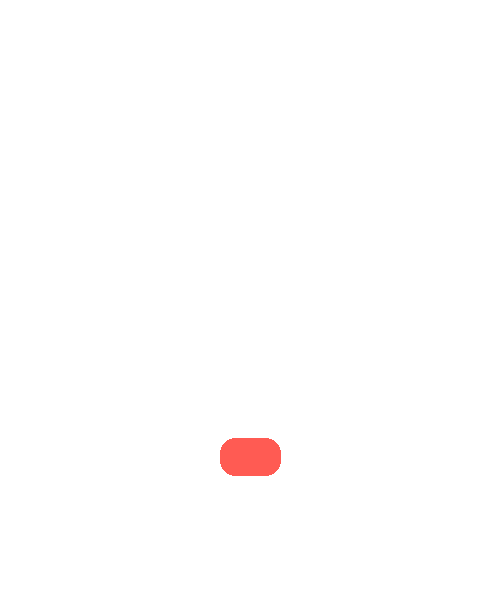
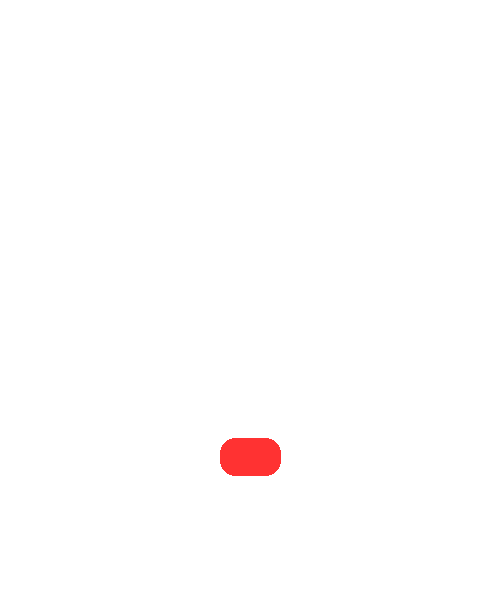
change colour add add r to refresh message

Changed region(s): [[0.42, 0.7322, 0.57, 0.8237]]

diff --git a/main.py b/main.py
@@ -31,7 +31,7 @@ font_path = "./assets/fonts/GaretHeavy.ttf"
 image_path = "./assets/images/donation_thermometer.png"
 donation_url = "https://www.idonate.ie/fundraiser/MediaProductionSociety14"
 heading_text = f"DONATION\nPROGRESS"
-mercury_color = (358, 91, 83)
+mercury_color = (255, 50, 50)
 
 def r_key_pressed():
     """Cross-platform check if 'r' key was pressed without blocking."""
@@ -164,6 +164,7 @@ while True:
         print(
             f"Donation Count Updated ({current_time}): €{current_donation_amount} out of €{goal_amount}")
 
+        print("Press R to refresh donation count")
         refresh_delay = random.randint(10, 60)
 
         # Sleep in 0.1s steps while checking for keypress
